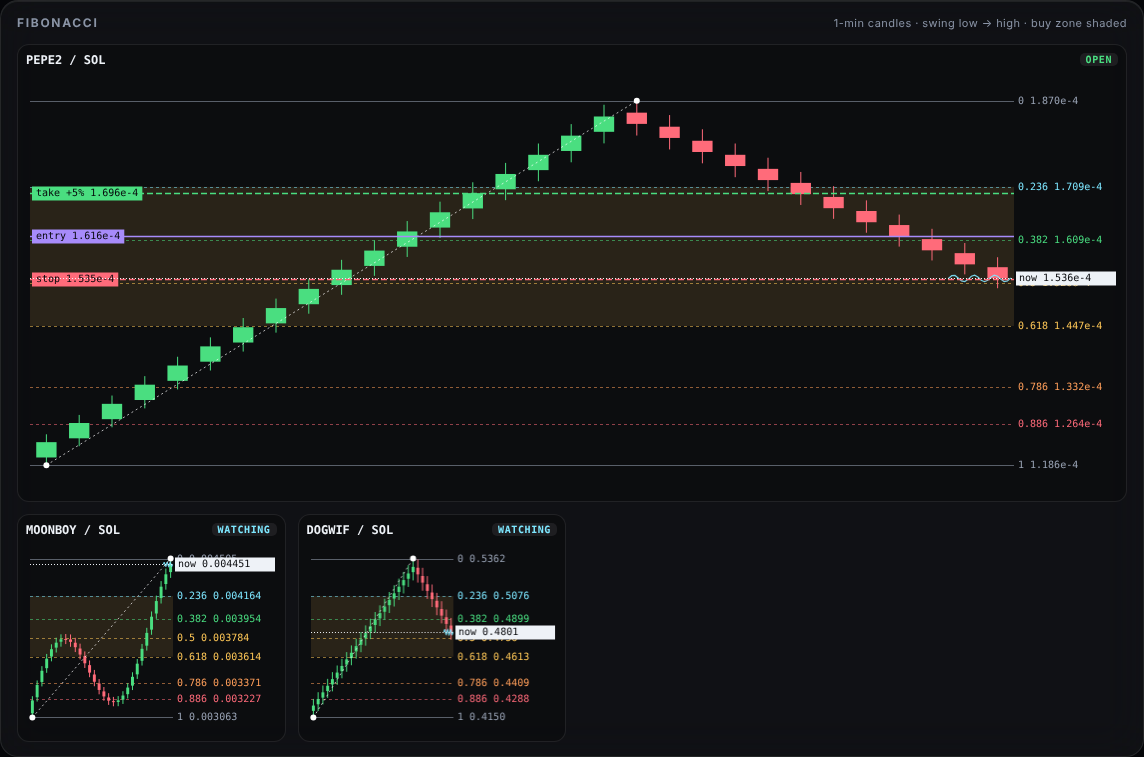
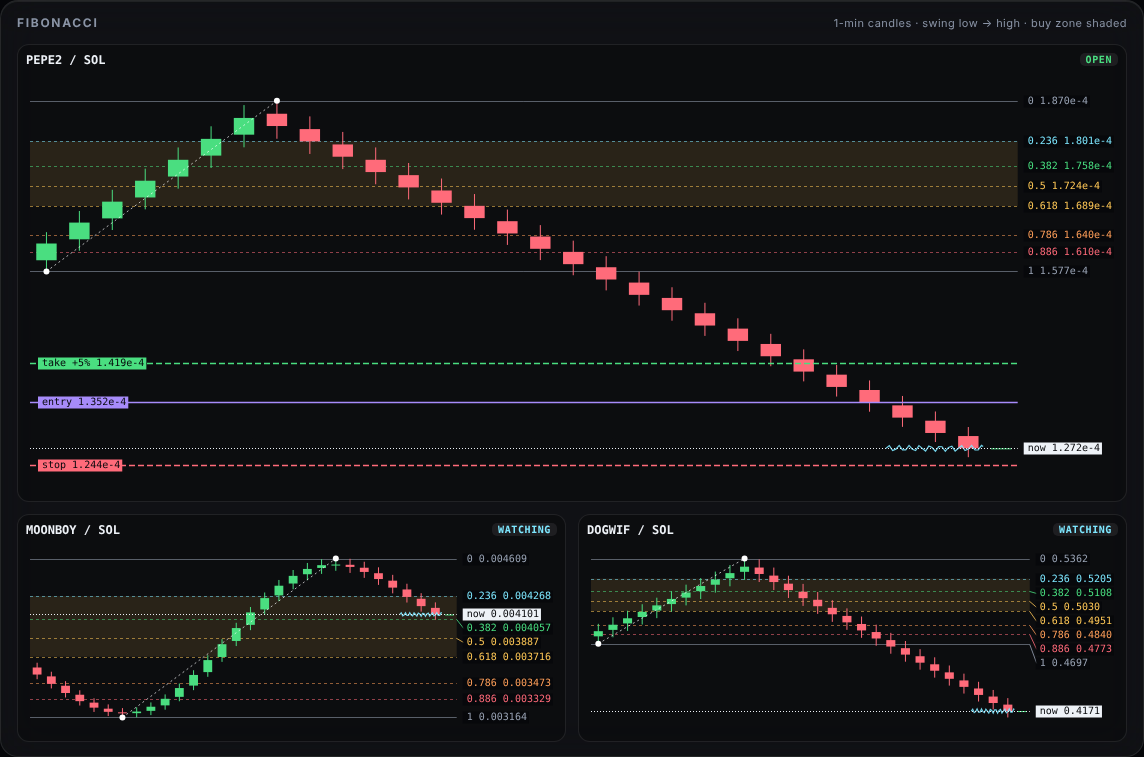
Ultra fib widget: labels never hide each other, cards use full width, screenshot from real engine status
Reviewer found the 0.5 level hidden under the now tag and stop/now tags merged.
Labels are now laid out per side, pushed apart with a leader tick to their line;
gutter sized to the widest label; the screenshot draws engine.status().charts.

Claude-Session: https://claude.ai/code/session_0181L2kuKeioRLEVYRzeLmhY

diff --git a/tools/autotrader/src/ui/fib.js b/tools/autotrader/src/ui/fib.js
@@ -11,18 +11,20 @@
     const vals = [...cs.flatMap((k) => [k.h, k.l]), ...ticks.map((x) => x[1]), c.lo, c.hi, c.entry, c.stop, ...(c.takes || []), c.price].filter((v) => v != null && isFinite(v));
     if (!vals.length) return;
     let mn = Math.min(...vals), mx = Math.max(...vals); const pad = (mx - mn || mx * 0.01 || 1) * 0.06; mn -= pad; mx += pad;
-    const L = 4, R = 104, T = 6, B = 6, pw = W - L - R, phh = H - T - B;
+    const small = W < 420, FS = small ? 9 : 10; g.font = `${FS}px ui-monospace, Menlo, monospace`;
+    const R = 16 + Math.max(60, ...[...(c.levels || []).map((lv) => `${lv.r} ${fp(lv.p)}`), `now ${fp(c.price)}`].map((t) => g.measureText(t).width)), L = 4, T = 6, B = 6, pw = W - L - R, phh = H - T - B;
     const y = (v) => T + (1 - (v - mn) / (mx - mn)) * phh;
     const t0 = cs.length ? cs[0].t : ticks.length ? ticks[0][0] : 0, t1 = Math.max(cs.length ? cs[cs.length - 1].t + 60000 : 0, ticks.length ? ticks[ticks.length - 1][0] : 0, t0 + 60000);
     const x = (t) => L + ((t - t0) / (t1 - t0)) * pw;
-    g.font = "10px ui-monospace, Menlo, monospace"; g.textBaseline = "middle";
+    g.font = `${FS}px ui-monospace, Menlo, monospace`; g.textBaseline = "middle";
     // the buy zone, shaded
     if (c.zone && c.zone.top != null) { const a = y(c.zone.top), b = y(c.zone.bottom); g.fillStyle = "rgba(255,200,87,.12)"; g.fillRect(L, Math.min(a, b), pw, Math.abs(b - a)); }
-    // fib levels with ratio and price
+    // fib levels with ratio and price (labels are laid out last, so none hides another)
+    const right = [], left = [];
     for (const lv of c.levels || []) {
       if (lv.p == null) continue; const yy = Math.round(y(lv.p)) + 0.5, col = LV[lv.r] || "#9aa4b5";
       g.strokeStyle = col; g.globalAlpha = 0.55; g.setLineDash(lv.r === 0 || lv.r === 1 ? [] : [3, 3]); g.beginPath(); g.moveTo(L, yy); g.lineTo(L + pw, yy); g.stroke(); g.setLineDash([]); g.globalAlpha = 1;
-      g.fillStyle = col; g.fillText(`${lv.r} ${fp(lv.p)}`, L + pw + 4, yy);
+      right.push({ y: yy, text: `${lv.r} ${fp(lv.p)}`, col, box: false });
     }
     // candles
     const cw = Math.max(1.5, (pw / Math.max(1, (t1 - t0) / 60000)) * 0.62);
@@ -41,12 +43,25 @@
     }
     // the trade: entry, stop, take, and the price now
     const hl = (v, col, label, dash) => { if (v == null) return; const yy = Math.round(y(v)) + 0.5; g.strokeStyle = col; g.setLineDash(dash || []); g.lineWidth = 1.4; g.beginPath(); g.moveTo(L, yy); g.lineTo(L + pw, yy); g.stroke(); g.setLineDash([]); g.lineWidth = 1;
-      const tw = g.measureText(label).width + 8; g.fillStyle = col; g.fillRect(L + 2, yy - 7, tw, 14); g.fillStyle = "#06070a"; g.fillText(label, L + 6, yy); };
+      left.push({ y: yy, text: label, col, box: true }); };
     hl(c.entry, "#a78bfa", `entry ${fp(c.entry)}`);
     hl(c.stop, "#ff6b7a", `stop ${fp(c.stop)}`, [6, 3]);
     (c.takes || []).forEach((v) => hl(v, "#4ade80", `take +5% ${fp(v)}`, [6, 3]));
     if (c.price != null) { const yy = Math.round(y(c.price)) + 0.5; g.strokeStyle = "#eef2f7"; g.setLineDash([1, 2]); g.beginPath(); g.moveTo(L, yy); g.lineTo(L + pw, yy); g.stroke(); g.setLineDash([]);
-      g.fillStyle = "#eef2f7"; g.fillRect(L + pw + 2, yy - 7, R - 4, 14); g.fillStyle = "#06070a"; g.fillText(`now ${fp(c.price)}`, L + pw + 5, yy); }
+      right.push({ y: yy, text: `now ${fp(c.price)}`, col: "#eef2f7", box: true }); }
+    // labels: sorted by price line, pushed apart so every one is readable, with a tick back to its line when moved
+    const lay = (arr, side) => {
+      const h = FS + 4; arr.sort((a, b) => a.y - b.y); arr.forEach((a, i) => { a.ly = Math.max(a.y, i ? arr[i - 1].ly + h : T + h / 2); });
+      for (let i = arr.length - 1; i >= 0; i--) a_fix(arr, i, h);
+      for (const a of arr) {
+        const tw = g.measureText(a.text).width + 8, x0 = side === "r" ? L + pw + 8 : L + 10;
+        if (Math.abs(a.ly - a.y) > 1) { g.strokeStyle = a.col; g.globalAlpha = 0.8; g.beginPath(); g.moveTo(side === "r" ? L + pw : L, a.y); g.lineTo(side === "r" ? x0 - 1 : x0, a.ly); g.stroke(); g.globalAlpha = 1; }
+        if (a.box) { g.fillStyle = a.col; g.fillRect(x0 - 2, a.ly - h / 2 + 1, tw - 2, h - 2); g.fillStyle = "#06070a"; } else { g.fillStyle = "rgba(6,7,10,.75)"; g.fillRect(x0 - 2, a.ly - h / 2 + 1, tw - 2, h - 2); g.fillStyle = a.col; }
+        g.fillText(a.text, x0 + 2, a.ly);
+      }
+    };
+    const a_fix = (arr, i, h) => { const max = i === arr.length - 1 ? H - B - h / 2 : arr[i + 1].ly - h; if (arr[i].ly > max) arr[i].ly = max; };
+    lay(right, "r"); lay(left, "l");
   }
   function panel(charts) {
     const sec = document.createElement("div"); sec.className = "glass panel fib";

diff --git a/tools/autotrader/src/ui/style.css b/tools/autotrader/src/ui/style.css
@@ -258,9 +258,10 @@ header.top.slim { display: none; }
 .fib { margin-bottom: 16px; padding: 14px 16px; }
 .fib h2 { display: flex; justify-content: space-between; align-items: baseline; }
 .fib h2 small { font-size: 11px; color: var(--dim); font-weight: 400; letter-spacing: .04em; text-transform: none; }
-.fib__grid { display: grid; grid-template-columns: repeat(auto-fill, minmax(260px, 1fr)); gap: 12px; }
+.fib__grid { display: flex; flex-wrap: wrap; gap: 12px; }
+.fib__grid > * { flex: 1 1 300px; min-width: 0; }
 .fib__card { position: relative; border: 1px solid var(--line); border-radius: 12px; background: rgba(0,0,0,.25); padding: 8px; cursor: zoom-in; }
-.fib__card.big { grid-column: 1 / -1; cursor: zoom-out; }
+.fib__card.big { flex-basis: 100%; cursor: zoom-out; }
 .fib__card b { font: 700 12px var(--mono); }
 .fib__card .tag { float: right; font: 600 10px var(--mono); padding: 1px 6px; border-radius: 5px; background: var(--glass2); color: var(--cyan); }
 .fib__card .tag.open { color: var(--green); }
